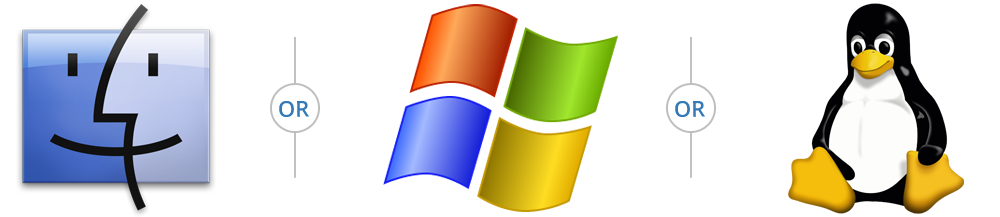
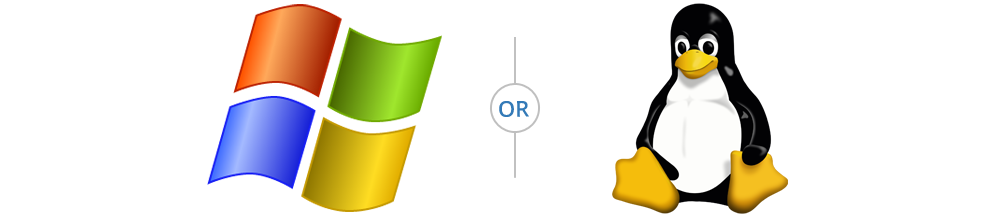
Update setup-masternode.php

diff --git a/setup-masternode.php b/setup-masternode.php
@@ -29,7 +29,7 @@ include('inc/header.php') ?>
                     <div id="network" class="tab-pane fade in active">
                         <div class="row" style="margin-top:0%;padding-bottom:0px;">
                             <div class="col-md-12 col-sm-12 col-xs-12">
-                                <p class="header small mb-3">Download XinFin One Click Installer (to setup Masternode) for Windows, Linux and macOS</p>
+                                <p class="header small mb-3">Download XinFin One Click Installer (to setup Masternode) for Windows and Linux</p>
                                 <div class="flex-row">
                                     <div class="col-md-4 col-sm-4 col-xs-12 mb-2">
                                         <div class="configurationsBox text-center">
@@ -51,7 +51,8 @@ include('inc/header.php') ?>
                                         <div class="configurationsBox text-center">
                                             <img src="assets/images/masternode/mac-icon.png" class="img-responsive icon-single" />
                                             <h1>MacOS</h1>
-                                            <a href="http://download.xinfin.network/XinFin-Network-installer-0-12-0.rar"><button class="btn-outline mb-1">Download</button></a>
+                                            <p>Coming Soon!</p>
+                                            <!--<a href="http://download.xinfin.network/XinFin-Network-installer-0-12-0.rar"><button class="btn-outline mb-1">Download</button></a>-->
                                         </div>
                                     </div>
                                 </div>
@@ -91,7 +92,7 @@ include('inc/header.php') ?>
                                         <div class="configurationsBox">
                                             <img src="assets/images/masternode/development-icon.png" class="img-responsive" />
                                             <h1>Development</h1>
-                                            <p>Mac OS X, Windows (64-bit), or most Linux distributions</p>
+                                            <p>Windows (64-bit) or most Linux distributions</p>
                                         </div>
                                     </div>
 
